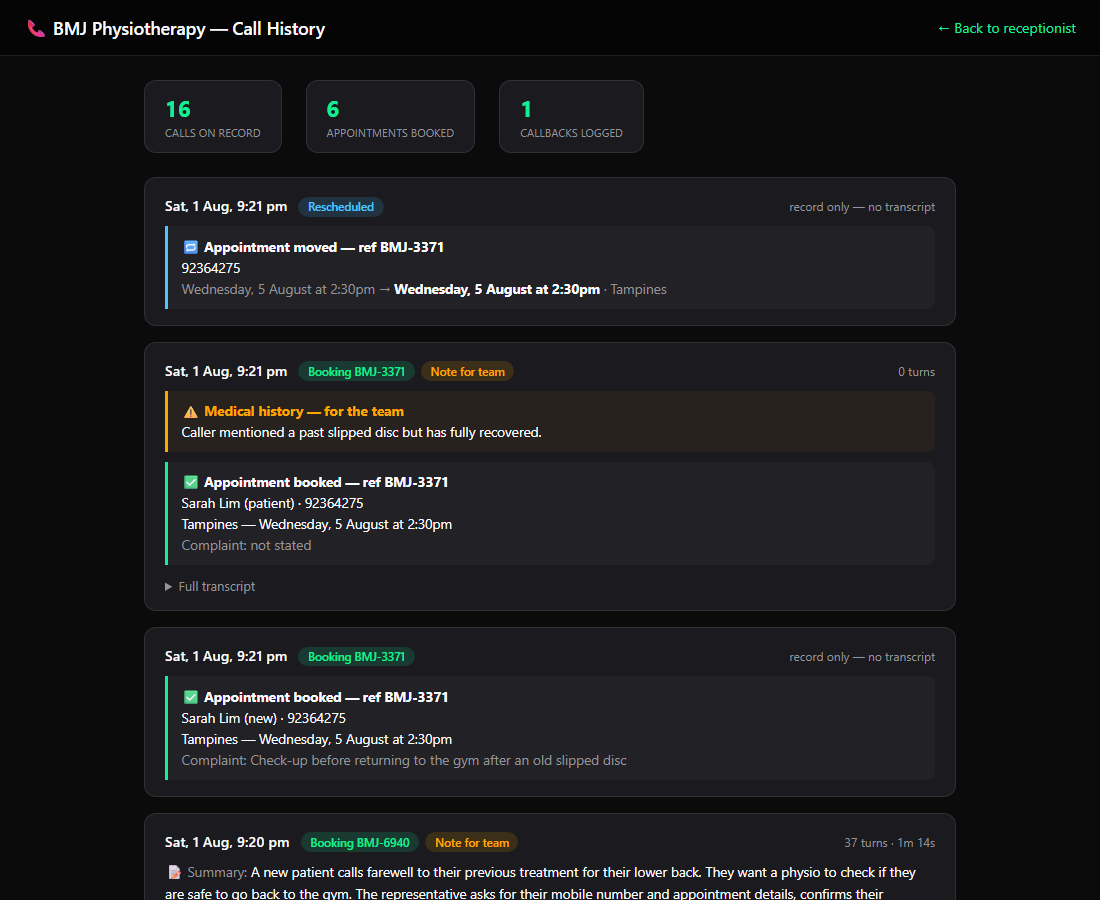
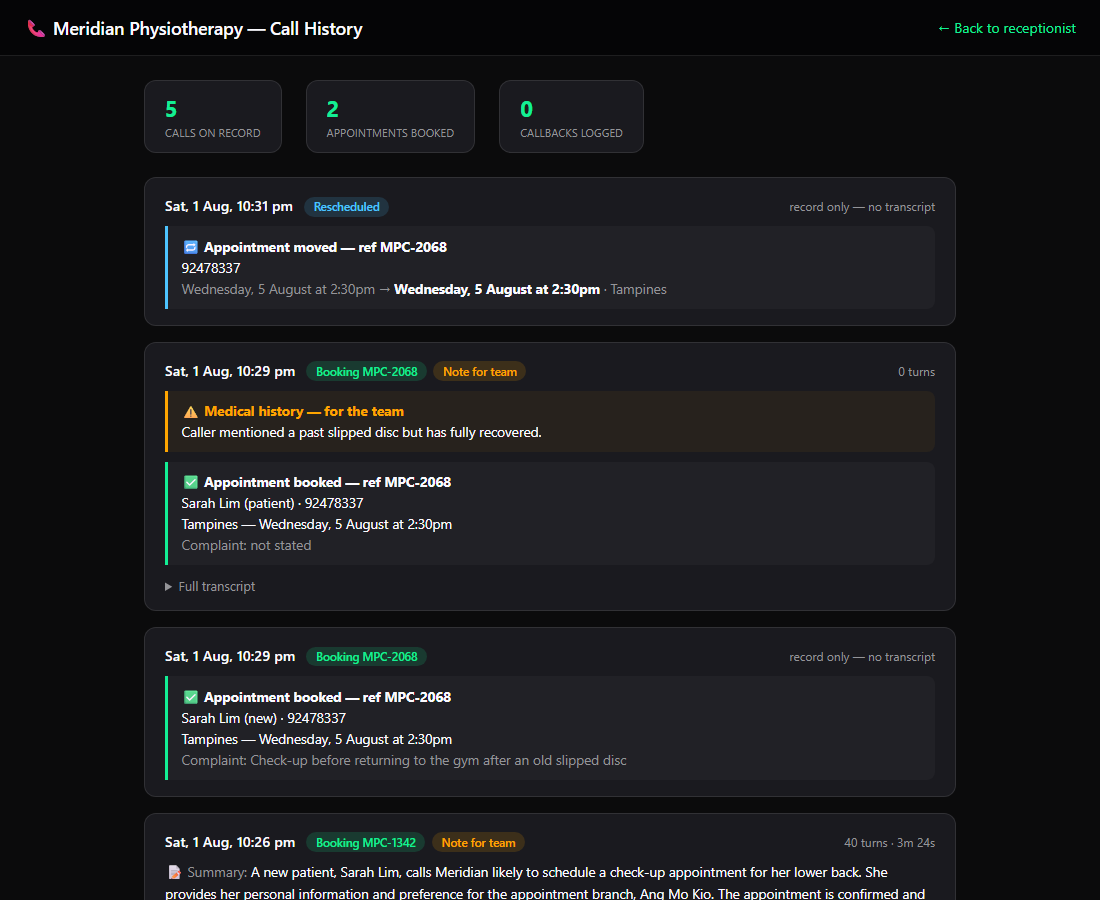
Rebrand to fictional 'Meridian Physiotherapy' for public release
Real clinic's name removed from prompt, tests, toml, and friction
notes; refs now MPC-. Fresh demo data + dashboard screenshot
regenerated by re-running all three E2E suites (all passing).

diff --git a/FRICTION-NOTES.md b/FRICTION-NOTES.md
@@ -6,4 +6,4 @@ Logged while building a physio-clinic voice agent on the Voice Agent API, starti
 2. **`voice-agent-settings-configuration` docs URL 404s** — linked from search/older pages; the live page is `/docs/voice-agent-settings`. Broken-link redirect would help.
 3. **Starter playback is choppy/staticky** — chunks are played as isolated buffers chained via `onended`, leaving audible gaps/clicks at every chunk boundary; agent speech sounds like static. Also no barge-in flush: leftover scheduled audio keeps playing after the user interrupts. Fixed locally with a continuous-timeline scheduler (`nextPlayTime` cursor) + flushing scheduled sources on `UserStartedSpeaking`.
 4. **Starter fails silently under Chrome's autoplay policy** — `node-voice-agent` frontend creates its `AudioContext` but never calls `resume()`. Chrome starts contexts `suspended`, so the app connects fine, mic permission shows "Active", text chat works — but zero audio flows either direction (Audio Chunks stays 0) with no error shown. First-run experience looks broken. Fix: `await audioContext.resume()` after creation. Suggest patching the starter + surfacing `audioContext.state` in the status panel.
-5. **Text Intelligence summarization garbles proper nouns** (2026-08-01) — feeding a clean `Receptionist:/Caller:` transcript to `POST /v1/read?summarize=true&language=en` returns a directionally accurate summary, but entity names are mangled even though the input text spells them correctly: "BMJ Physiotherapy" → "farewell medicine", "Tampines branch" → "Kayines branch". For a call-history dashboard the summary is still useful, but names a business owner would search for (clinic, branch, patient) can't be trusted from the summary alone — we render it alongside the exact structured outcomes and the raw transcript as ground truth. Suggest: a note in the summarization docs about entity fidelity, or an entity-preserving mode.
+5. **Text Intelligence summarization garbles proper nouns** (2026-08-01) — feeding a clean `Receptionist:/Caller:` transcript to `POST /v1/read?summarize=true&language=en` returns a directionally accurate summary, but entity names are mangled even though the input text spells them correctly: the clinic's name became "farewell medicine", "Tampines branch" became "Kayines branch". For a call-history dashboard the summary is still useful, but names a business owner would search for (clinic, branch, patient) can't be trusted from the summary alone — we render it alongside the exact structured outcomes and the raw transcript as ground truth. Suggest: a note in the summarization docs about entity fidelity, or an entity-preserving mode.

diff --git a/README.md b/README.md
@@ -1,6 +1,7 @@
 # Jane — AI Voice Receptionist for a Physiotherapy Clinic
 
-A working phone receptionist for a real Singapore physiotherapy clinic, built on
+A working phone receptionist for a Singapore physiotherapy clinic (a real clinic —
+name fictionalized here as "Meridian Physiotherapy"), built on
 **Deepgram's Voice Agent API** (Nova-3 STT · Aura-2 TTS · function calling), with
 **Deepgram Text Intelligence** auto-summarizing every call for the owner's dashboard.
 
